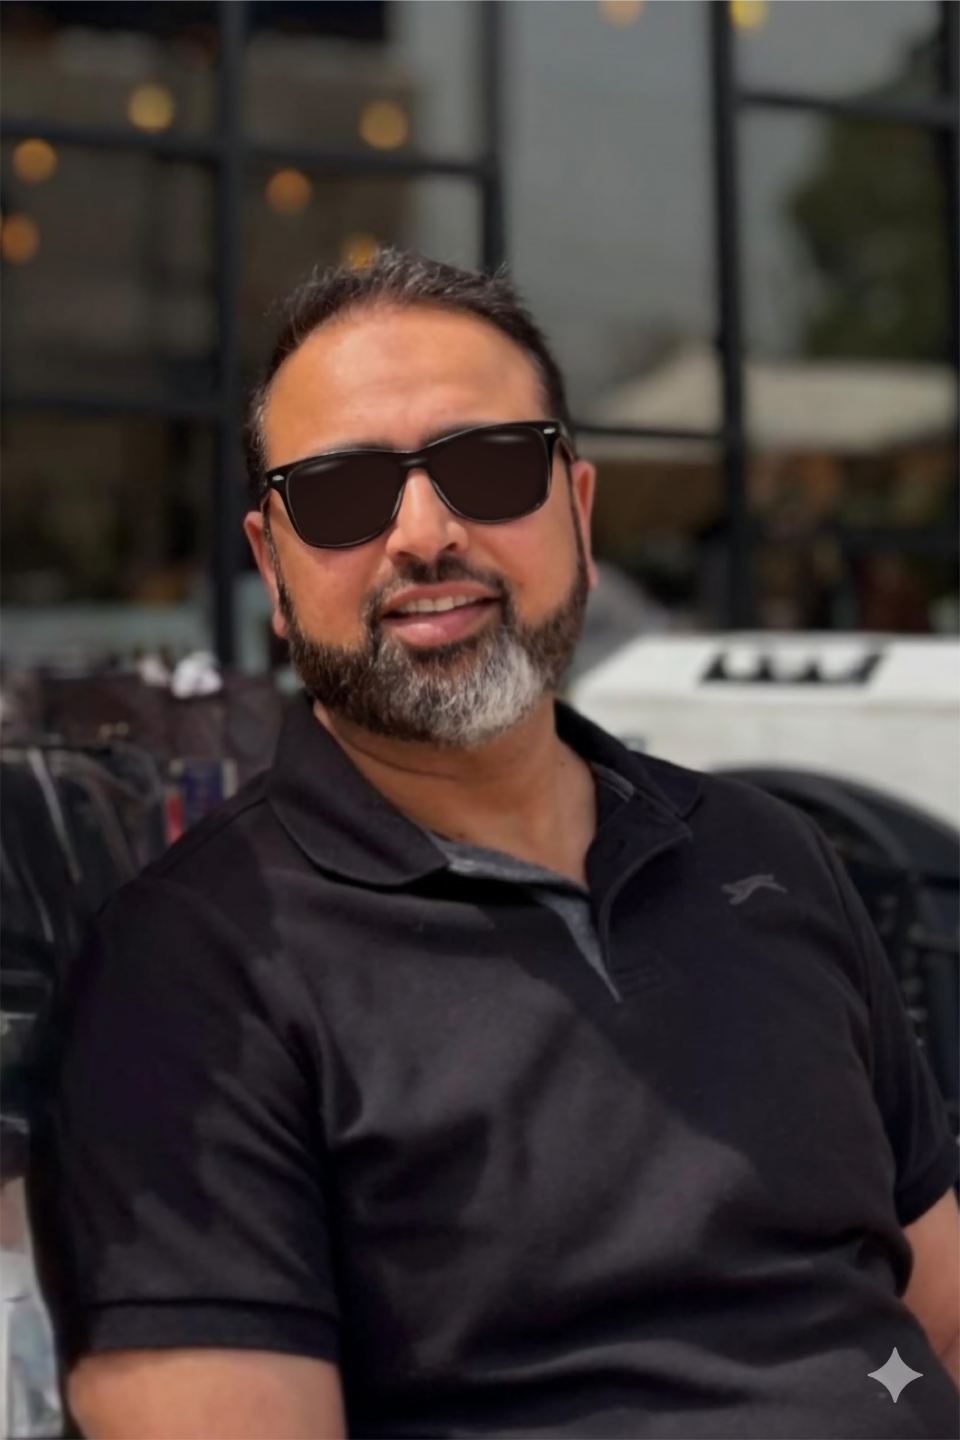
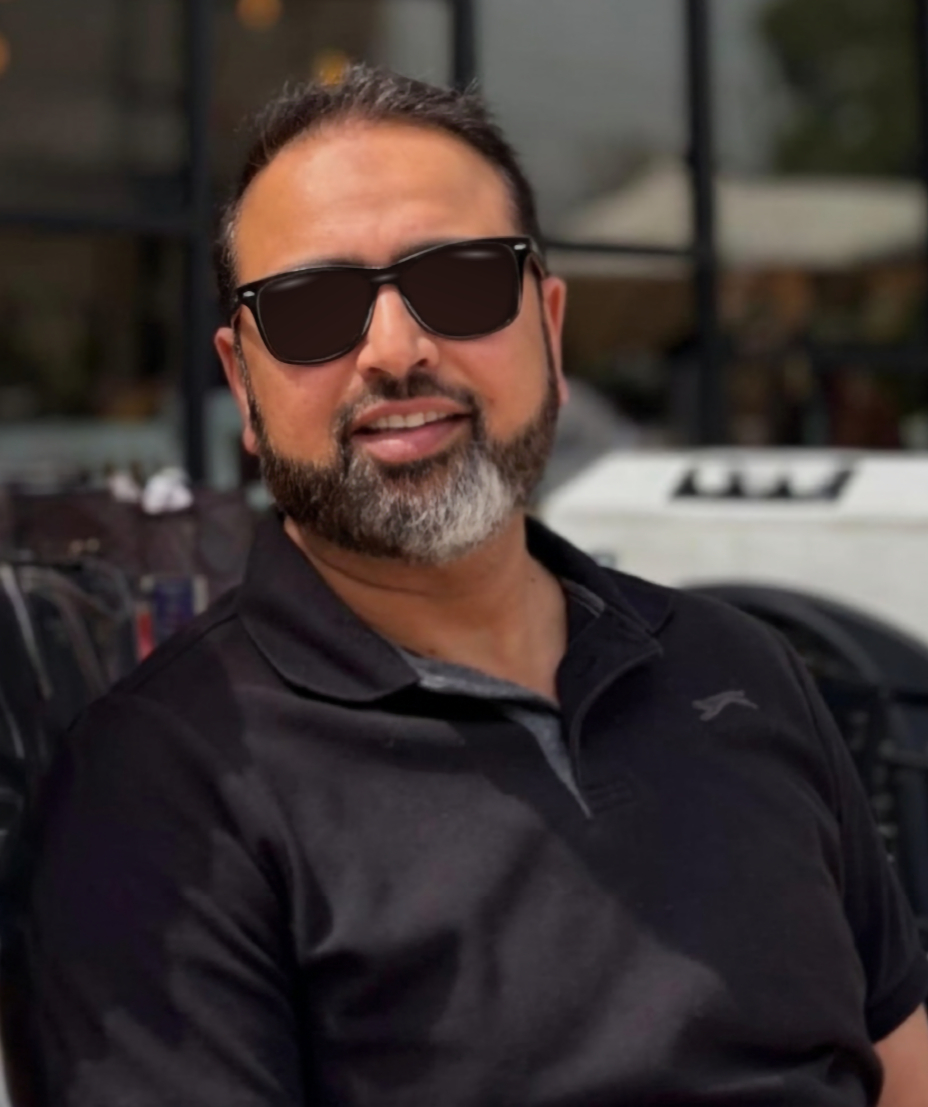
CTO pic updated

diff --git a/components/AboutPageClient.tsx b/components/AboutPageClient.tsx
@@ -36,7 +36,7 @@ export default function AboutPageClient() {
       slug: "farooq-umer-khan",
       name: "Farooq Umer Khan",
       role: "Chief Technology Officer",
-      image: "/leadership/CTO2.webp",
+      image: "/leadership/CTO2o.webp",
     },
     {
       slug: "dr-bilal-rauf",
